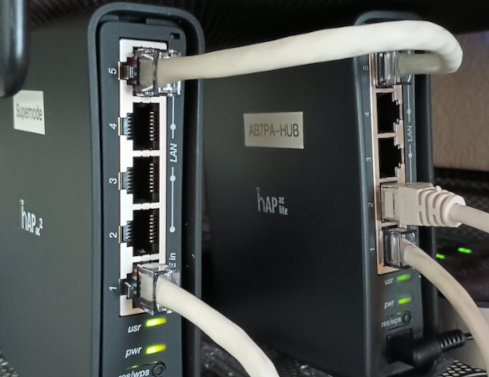
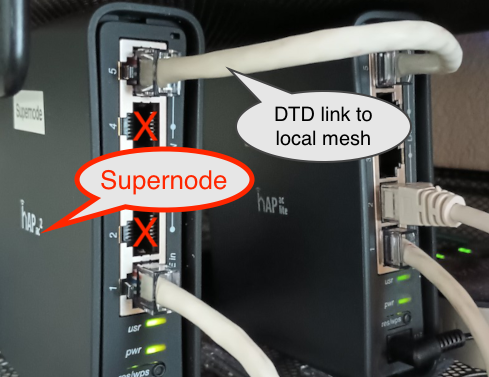
clarify supernode uses (#428)

Changed region(s): [[0.092, 0.2918, 0.5215, 0.6711], [0.4601, 0.1751, 0.8589, 0.4377]]

diff --git a/arednHow-toGuides/supernodes.rst b/arednHow-toGuides/supernodes.rst
@@ -21,7 +21,7 @@ Before you consider deploying a Supernode, make sure you can adequately support 
 
 2. **Uptime stability.** The Supernode should be up 99.999% of the time. The location should ideally have backup power and network connectivity, both to the Internet and to the local mesh.
 
-3. **Solid local mesh connectivity.** As this is the path for all traffic between your local mesh and every other mesh, the connection to your mesh should be at a high-bandwidth location. If you are deploying a Supernode with any sort of high-bandwidth backbone, the Supernode should be connected to the backbone.
+3. **Solid local mesh connectivity.** As this will be the path for all traffic between your local mesh and every other mesh, the connection to your mesh should be at a high-bandwidth location. If you are deploying a Supernode with any sort of high-bandwidth backbone, the Supernode should be connected to the backbone.
 
 Coordinating Supernode Deployments
 ----------------------------------
@@ -43,7 +43,7 @@ As more Supernodes are deployed linking more local networks, the overall perform
 Setting up a Supernode
 ----------------------
 
-Typically a Supernode is configured on a dedicated *Mikrotik hAP ac2*. Its sole task is to serve as a node on the Supernode network. The local network is linked to the Supernode using a :abbr:`DtD (Device to Device)` link on one of its LAN ports which is configured for *dtdlink* on the *Ethernet Ports & Xlinks* display (Port 5 by default).
+Typically a Supernode is configured on a dedicated *Mikrotik hAP ac2*. Its sole task is to serve as a node on the Supernode network. The local network is linked to the Supernode using a :abbr:`DtD (Device to Device)` link on one of its LAN ports which is configured for *dtdlink* on the *Ethernet Ports & Xlinks* display (Port 5 by default). The Supernode is dedicated to this task, so it should not be used for anything beyond its role as a gateway.
 
 .. image:: _images/supernode-localDTD.png
    :alt: DtD Link Example
@@ -57,7 +57,7 @@ The following steps are required to configure a Supernode.
 
 #. Configure the Supernode with a nodename prefixed with your callsign followed by a location identifier as well as the word "SUPERNODE." For example you could use ``AB2CD-NYC-SUPERNODE`` or ``AB6CD-LAX-SUPERNODE``
 
-#. Ensure that the *Mesh* radio is ``off``
+#. Ensure that the Supernode's radio is ``off``
 
 #. Provide a reserved or static IP address for the device's WAN connection to your Internet routing device.
 
@@ -95,7 +95,7 @@ Things to Avoid
 
   - Your Supernode must **not** use any cross-links (xlinks) to other nodes.
   - Your Supernode must **not** have tunnel links to any non-Supernode devices.
-  - Your Supernode must **not** have its *Mesh* radio interface enabled.
+  - Your Supernode must **not** have its radio(s) enabled.
 
 Before proceeding, make sure all the previous steps have been completed successfully. Now you should be able to connect to another Supernode using a tunnel. The easiest way to do this is to ask another Supernode owner for a set of tunnel client credentials. Your node can use either a client or server tunnel link. Supernode owners can be identified from the `Supernode Network Map <https://worldmap.arednmesh.org/>`_
 
